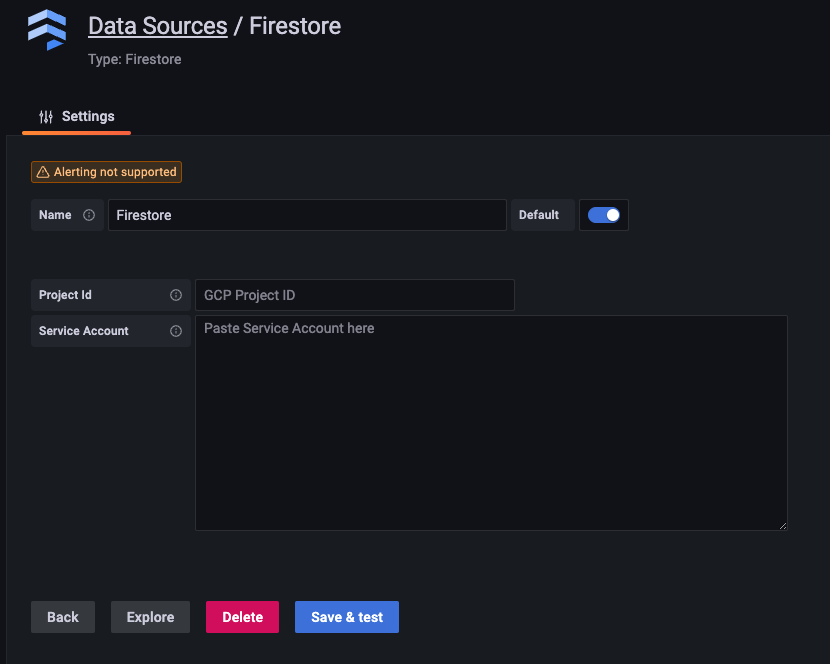
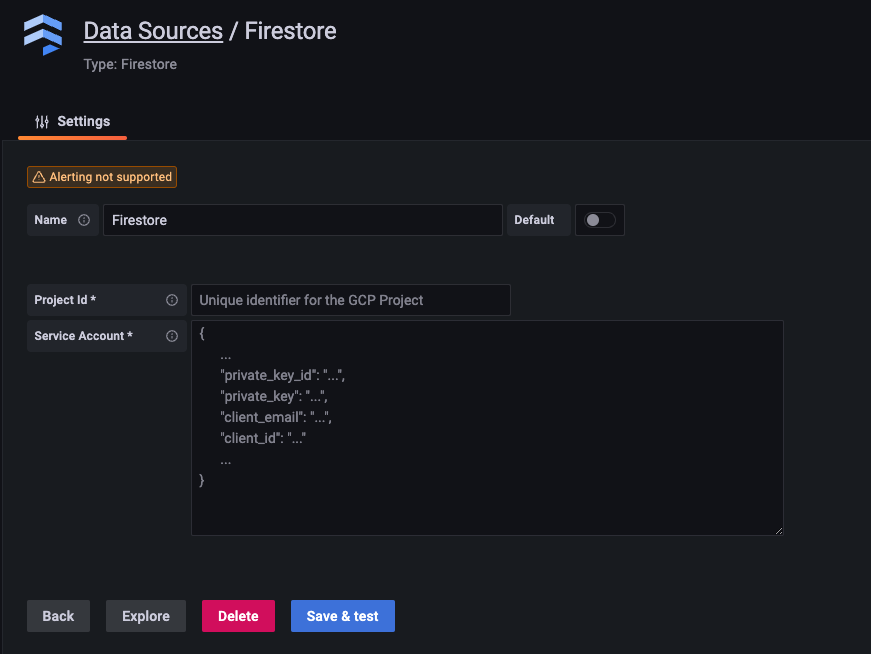
Encrypted storage of service account (#3)

diff --git a/src/components/ConfigEditor.tsx b/src/components/ConfigEditor.tsx
@@ -1,7 +1,7 @@
 import React, { ChangeEvent, PureComponent } from 'react';
-import { TextArea, InlineField, Input } from '@grafana/ui';
+import { InlineField, Input, SecretTextArea } from '@grafana/ui';
 import { DataSourcePluginOptionsEditorProps } from '@grafana/data';
-import { MyDataSourceOptions } from '../types';
+import { FirestoreSecureJsonData, MyDataSourceOptions } from '../types';
 
 interface Props extends DataSourcePluginOptionsEditorProps<MyDataSourceOptions> { }
 
@@ -12,7 +12,7 @@ export class ConfigEditor extends PureComponent<Props, State> {
     const { onOptionsChange, options } = this.props;
     const jsonData = {
       ...options.jsonData,
-      projectId: event.target.value,
+      projectId: event.target.value.trim(),
     };
     onOptionsChange({
       ...options, jsonData
@@ -22,42 +22,67 @@ export class ConfigEditor extends PureComponent<Props, State> {
   // Secure field (only sent to the backend)
   onServiceAccountChange = (event: ChangeEvent<HTMLTextAreaElement>) => {
     const { onOptionsChange, options } = this.props;
-    const jsonData = {
-      ...options.jsonData,
-      serviceAccount: event.target.value,
-    };
-
     onOptionsChange({
       ...options,
-      jsonData
+      secureJsonData: {
+        serviceAccount: event.target.value,
+      },
+    });
+  };
+
+  onResetServiceAccount = () => {
+    const { onOptionsChange, options } = this.props;
+    onOptionsChange({
+      ...options,
+      secureJsonFields: {
+        ...options.secureJsonFields,
+        serviceAccount: false,
+      },
+      secureJsonData: {
+        ...options.secureJsonData,
+        serviceAccount: '',
+      },
     });
   };
 
   render() {
     const { options } = this.props;
-    const { jsonData } = options;
-    // const secureJsonData = (options.secureJsonData || {}) as FirestoreSecureJsonData;
+    const { jsonData, secureJsonFields } = options;
+    const secureJsonData = (options.secureJsonData || {}) as FirestoreSecureJsonData;
 
     return (
       <div className="gf-form-group">
         <div className='gf-form-group'>
-            <InlineField label="Project Id" labelWidth={20} tooltip="Project Id of on GCP console to fetch firestore resources.">
-                <Input 
-                  onChange={this.onProjectIdChange}
-                  value={jsonData.projectId || ''}
-                  placeholder="GCP Project ID" 
-                  width={40}></Input>
-              </InlineField>
-              <InlineField label="Service Account" labelWidth={20} tooltip="Service Account having previliges to read all firestore resources. Least role expected is 'roles/datastore.viewer'">
-                <TextArea
-                  value={jsonData.serviceAccount || ''}
-                  label="Service Account"
-                  placeholder="Paste Service Account here"
-                  onChange={this.onServiceAccountChange}
-                  cols={80}
-                  rows={10}
-                />
-              </InlineField>
+          <InlineField required label="Project Id" labelWidth={20}
+            tooltip="Project Id of on GCP console to fetch firestore resources.">
+            <Input
+              onChange={this.onProjectIdChange}
+              value={jsonData.projectId || ''}
+              placeholder="Unique identifier for the GCP Project"
+              width={40}></Input>
+          </InlineField>
+          <InlineField required label="Service Account" labelWidth={20}
+            tooltip="Service Account having previliges to read all firestore resources. Least role expected is 'roles/datastore.viewer'">
+            <SecretTextArea
+              label="Service Account"
+              placeholder={`{
+      ...
+      "private_key_id": "...",
+      "private_key": "...",
+      "client_email": "...",
+      "client_id": "..."
+      ...
+}
+              `}
+
+              value={secureJsonData.serviceAccount || ''}
+              isConfigured={(secureJsonFields && secureJsonFields.serviceAccount) as boolean}
+              onReset={this.onResetServiceAccount}
+              onChange={this.onServiceAccountChange}
+              cols={80}
+              rows={10}
+            />
+          </InlineField>
         </div>
 
       </div>

diff --git a/pkg/plugin/datasource.go b/pkg/plugin/datasource.go
@@ -5,6 +5,7 @@ import (
 	vkit "cloud.google.com/go/firestore/apiv1"
 	"context"
 	"encoding/json"
+	"errors"
 	"fmt"
 	"github.com/grafana/grafana-plugin-sdk-go/backend"
 	"github.com/grafana/grafana-plugin-sdk-go/backend/instancemgmt"
@@ -88,8 +89,7 @@ type FirestoreQuery struct {
 }
 
 type FirestoreSettings struct {
-	ProjectId      string
-	ServiceAccount string
+	ProjectId string
 }
 
 func (d *Datasource) query(ctx context.Context, pCtx backend.PluginContext, query backend.DataQuery) backend.DataResponse {
@@ -105,8 +105,9 @@ func (d *Datasource) query(ctx context.Context, pCtx backend.PluginContext, quer
 
 	fsClient, err := newFirestoreClient(ctx, pCtx)
 	if err != nil {
-		return backend.ErrDataResponse(backend.StatusBadRequest, "newFirestoreClient: "+err.Error())
+		return backend.ErrDataResponse(backend.StatusBadRequest, "Invalid data source configuration: "+err.Error())
 	}
+	defer fsClient.Close()
 
 	if len(qm.CollectionPath) > 0 {
 
@@ -155,6 +156,8 @@ func (d *Datasource) query(ctx context.Context, pCtx backend.PluginContext, quer
 					case float64:
 						values = []float64{}
 						break
+					case map[string]interface{}, []map[string]interface{}, []interface{}:
+						values = []json.RawMessage{}
 					default:
 						values = []string{}
 					}
@@ -167,12 +170,12 @@ func (d *Datasource) query(ctx context.Context, pCtx backend.PluginContext, quer
 				case float64:
 					fieldValues[key] = append(values.([]float64), val.(float64))
 					break
-				case map[string]interface{}, []map[string]interface{}:
+				case map[string]interface{}, []map[string]interface{}, []interface{}:
 					jsonVal, err := json.Marshal(val)
 					if err != nil {
 						return backend.ErrDataResponse(backend.StatusBadRequest, "json.Marshal : "+key+err.Error())
 					} else {
-						fieldValues[key] = append(values.([]string), string(jsonVal))
+						fieldValues[key] = append(values.([]json.RawMessage), json.RawMessage(jsonVal))
 					}
 					break
 				default:
@@ -200,19 +203,30 @@ func newFirestoreClient(ctx context.Context, pCtx backend.PluginContext) (*fires
 	err := json.Unmarshal(pCtx.DataSourceInstanceSettings.JSONData, &settings)
 	if err != nil {
 		log.DefaultLogger.Error("Error parsing settings ", err)
-		return nil, err
+		return nil, fmt.Errorf("ProjectID: %v", err)
 	}
-	creds, err := google.CredentialsFromJSON(ctx, []byte(settings.ServiceAccount),
+
+	if len(settings.ProjectId) == 0 {
+		return nil, errors.New("project Id is required")
+	}
+
+	serviceAccount := pCtx.DataSourceInstanceSettings.DecryptedSecureJSONData["serviceAccount"]
+
+	if !json.Valid([]byte(serviceAccount)) {
+		return nil, errors.New("invalid service account, it is expected to be a JSON")
+	}
+
+	creds, err := google.CredentialsFromJSON(ctx, []byte(serviceAccount),
 		vkit.DefaultAuthScopes()...,
 	)
 	if err != nil {
 		log.DefaultLogger.Error("google.CredentialsFromJSON ", err)
-		return nil, err
+		return nil, fmt.Errorf("ServiceAccount: %v", err)
 	}
 	client, err := firestore.NewClient(ctx, settings.ProjectId, option.WithCredentials(creds))
 	if err != nil {
 		log.DefaultLogger.Error("firestore.NewClient ", err)
-		return nil, err
+		return nil, fmt.Errorf("firestore.NewClient: %v", err)
 	}
 	return client, nil
 }
@@ -232,13 +246,14 @@ func (d *Datasource) CheckHealth(ctx context.Context, req *backend.CheckHealthRe
 	client, healthErr := newFirestoreClient(ctx, req.PluginContext)
 
 	if healthErr == nil {
+		defer client.Close()
 		collections := client.Collections(ctx)
 		collection, err := collections.Next()
 		if err == nil {
 			log.DefaultLogger.Debug("First collections: ", collection.ID)
 		} else {
 			log.DefaultLogger.Error("client.Collections ", err)
-			healthErr = err
+			healthErr = fmt.Errorf("firestore.Collections: %v", err)
 		}
 	}
 

diff --git a/README.md b/README.md
@@ -9,14 +9,22 @@ Grafana Firestore Data Source Plugin enables integrating data on Firestore on to
 ## Features
 - [x] Use Google Firestore as data source for Grafana dashboards
 - [x] Configure Firestore data source with GCP `Project Id` and [`Service Account`](https://cloud.google.com/firestore/docs/security/iam) for authentication
-- [x] Query Firestore [collections](https://firebase.google.com/docs/firestore/data-model#collections)
-- [ ] Query [Collection Groups](https://firebase.blog/posts/2019/06/understanding-collection-group-queries)
+- [x] Store `Service Account` data source configuration in Grafana encrypted storage [Secure JSON Data](https://grafana.com/docs/grafana/latest/developers/plugins/add-authentication-for-data-source-plugins/#encrypt-data-source-configuration)
+- [x] Query Firestore [collections](https://firebase.google.com/docs/firestore/data-model#collections) and path to collections
+- [x] Auto detect data types: `string`, `number`, `boolean`, `json`
 - [ ] Query selected fields from collection
 - [ ] Order query results
 - [ ] Limit query results
 - [ ] Count query results
-- [ ] Use [Secure JSON Data](https://grafana.com/docs/grafana/latest/developers/plugins/add-authentication-for-data-source-plugins/#encrypt-data-source-configuration) to save `Service Account` Firestore data source configuration
-- [ ] Consider [Grafafa global variables](https://grafana.com/docs/grafana/latest/dashboards/variables/add-template-variables/#global-variables) when querying resources.
+- [ ] Query [Collection Groups](https://firebase.blog/posts/2019/06/understanding-collection-group-queries)
+- [ ] Use of [Grafafa global variables](https://grafana.com/docs/grafana/latest/dashboards/variables/add-template-variables/#global-variables) in queries.
+
+### Firestore data source configuration
+
+![](src/screenshots/firestore-datasource-configuration.png)
+
+### Using datasource 
+![](src/screenshots/query-with-firestore-datasource.png)
 
 ## Getting started
 
@@ -101,38 +109,6 @@ Grafana Firestore Data Source Plugin enables integrating data on Firestore on to
    mage -l
    ```
 
-# Distributing plugin
-
-When distributing a Grafana plugin either within the community or privately the plugin must be signed so the Grafana application can verify its authenticity. This can be done with the `@grafana/sign-plugin` package.
-
-_Note: It's not necessary to sign a plugin during development. The docker development environment that is scaffolded with `@grafana/create-plugin` caters for running the plugin without a signature._
-
-## Initial steps
-
-Before signing a plugin please read the Grafana [plugin publishing and signing criteria](https://grafana.com/docs/grafana/latest/developers/plugins/publishing-and-signing-criteria/) documentation carefully.
-
-`@grafana/create-plugin` has added the necessary commands and workflows to make signing and distributing a plugin via the grafana plugins catalog as straightforward as possible.
-
-Before signing a plugin for the first time please consult the Grafana [plugin signature levels](https://grafana.com/docs/grafana/latest/developers/plugins/sign-a-plugin/#plugin-signature-levels) documentation to understand the differences between the types of signature level.
-
-1. Create a [Grafana Cloud account](https://grafana.com/signup).
-2. Make sure that the first part of the plugin ID matches the slug of your Grafana Cloud account.
-   - _You can find the plugin ID in the plugin.json file inside your plugin directory. For example, if your account slug is `acmecorp`, you need to prefix the plugin ID with `acmecorp-`._
-3. Create a Grafana Cloud API key with the `PluginPublisher` role.
-4. Keep a record of this API key as it will be required for signing a plugin
-
-## Signing a plugin
-
-### Using Github actions release workflow
-
-If the plugin is using the github actions supplied with `@grafana/create-plugin` signing a plugin is included out of the box. The [release workflow](./.github/workflows/release.yml) can prepare everything to make submitting your plugin to Grafana as easy as possible. Before being able to sign the plugin however a secret needs adding to the Github repository.
-
-1. Please navigate to "settings > secrets > actions" within your repo to create secrets.
-2. Click "New repository secret"
-3. Name the secret "GRAFANA_API_KEY"
-4. Paste your Grafana Cloud API key in the Secret field
-5. Click "Add secret"
-
 #### Push a version tag
 
 To trigger the workflow we need to push a version tag to github. This can be achieved with the following steps:
@@ -141,10 +117,13 @@ To trigger the workflow we need to push a version tag to github. This can be ach
 2. Run `git push origin main --follow-tags`
 
 
-## Learn more
+## Contributing
+Thanks for considering contributing to this project!
 
-Below you can find source code for existing app plugins and other related documentation.
+Please read the [Contributions](.github/CONTRIBUTING.md) and [Code of conduct](.github/CODE_OF_CONDUCT.md). 
 
-- [Basic data source plugin example](https://github.com/grafana/grafana-plugin-examples/tree/master/examples/datasource-basic#readme)
-- [Plugin.json documentation](https://grafana.com/docs/grafana/latest/developers/plugins/metadata/)
-- [How to sign a plugin?](https://grafana.com/docs/grafana/latest/developers/plugins/sign-a-plugin/)
+Feel free to open an issue or submit a pull request!
+
+## License
+
+[MIT](LICENSE)

diff --git a/src/README.md b/src/README.md
@@ -9,12 +9,12 @@ Grafana Firestore Data Source Plugin enables integrating data on Firestore on to
 ## Features
 - [x] Use Google Firestore as data source for Grafana dashboards
 - [x] Configure Firestore data source with GCP `Project Id` and [`Service Account`](https://cloud.google.com/firestore/docs/security/iam) for authentication
-- [x] Query Firestore [collections](https://firebase.google.com/docs/firestore/data-model#collections)
-- [x] 
-- [ ] Query [Collection Groups](https://firebase.blog/posts/2019/06/understanding-collection-group-queries)
+- [x] Store `Service Account` data source configuration in Grafana encrypted storage [Secure JSON Data](https://grafana.com/docs/grafana/latest/developers/plugins/add-authentication-for-data-source-plugins/#encrypt-data-source-configuration)
+- [x] Query Firestore [collections](https://firebase.google.com/docs/firestore/data-model#collections) and path to collections
+- [x] Auto detect data types: `string`, `number`, `boolean`, `json`
 - [ ] Query selected fields from collection
 - [ ] Order query results
 - [ ] Limit query results
 - [ ] Count query results
-- [ ] Use [Secure JSON Data](https://grafana.com/docs/grafana/latest/developers/plugins/add-authentication-for-data-source-plugins/#encrypt-data-source-configuration) to save `Service Account` Firestore data source configuration
-- [ ] Consider [Grafafa global variables](https://grafana.com/docs/grafana/latest/dashboards/variables/add-template-variables/#global-variables) when querying resources.
+- [ ] Query [Collection Groups](https://firebase.blog/posts/2019/06/understanding-collection-group-queries)
+- [ ] Use of [Grafafa global variables](https://grafana.com/docs/grafana/latest/dashboards/variables/add-template-variables/#global-variables) in queries.
